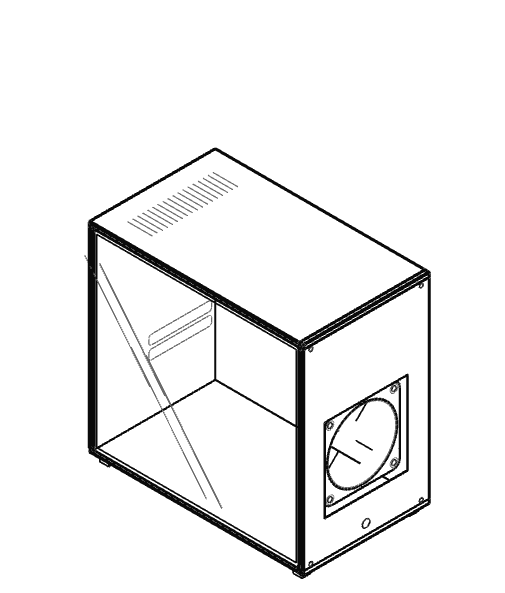
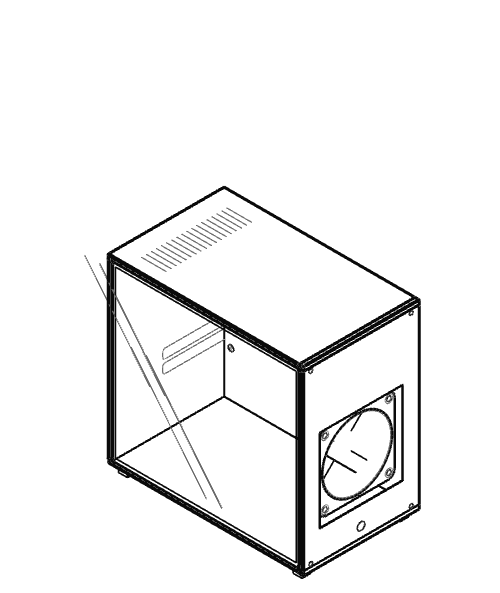
feat: add micro-ATX chassis variant and assets to service stage

diff --git a/src/lib/component-stage.ts b/src/lib/component-stage.ts
@@ -12,7 +12,7 @@ export type PieceId =
   | "fuentes" | "chasis" | "refrigeracion" | "almacenamiento";
 
 /** Variante dentro de un paso: refrigeración (aire | líquida), almacenamiento (M.2 | SATA | HDD); el resto tiene solo "unica". */
-export type VariantId = "unica" | "pecera" | "cerrado" | "itx" | "aire" | "liquida" | "m2" | "sata" | "hdd";
+export type VariantId = "unica" | "pecera" | "cerrado" | "matx" | "itx" | "aire" | "liquida" | "m2" | "sata" | "hdd";
 
 /** Imagen dibujada en el viewBox de la variante (x=0,y=0,width=w,height=h salvo que se diga otra cosa). */
 export interface StageImagePart {
@@ -186,17 +186,31 @@ export const STAGE_PIECES: Record<PieceId, StagePiece> = {
         ],
       },
       {
+        id: "matx",
+        w: 424,
+        h: 494,
+        parts: [
+          { type: "image", href: "/servicios/chasis-matx-ref.webp", hrefSm: "/servicios/chasis-matx-ref.webp", role: "base" },
+          { type: "image", href: "/servicios/chasis-matx-base.webp", hrefSm: "/servicios/chasis-matx-base-sm.webp", role: "base" },
+          { type: "rotor", href: "/servicios/chasis-matx-front120.webp", size: 98, m: [0.7071, -0.4082, 0, 0.8165, 265.515, 340.4185], dir: 1 },
+          { type: "path", kind: "air", d: "M365 443.8C361.9 442 352.5 436.6 346.2 432.9C339.9 429.3 333.7 425.7 327.4 422.1C321.1 418.4 314.8 414.8 308.5 411.2C302.3 407.6 296 403.9 289.7 400.3C283.4 396.7 277.1 393 270.9 389.4C264.6 385.8 258.3 382.2 252 378.5C245.7 374.9 239.5 371.3 233.2 367.7C226.9 364 220.6 360.4 214.3 356.8C208.1 353.2 201.8 349.5 195.5 345.9C189.2 342.3 183 338.7 176.7 335C170.4 331.4 164.1 327.8 157.8 324.2C151.6 320.5 145.3 317.1 139 313.3C132.7 309.5 126.4 305.9 120.2 301.2C113.9 296.6 107.6 291.3 101.3 285.4C95 279.4 88.8 272.8 82.5 265.6C76.2 258.4 69.9 250.5 63.7 241.9C57.4 233.4 49.5 221.5 44.8 214.4C40.1 207.2 37 201.6 35.4 199.1" },
+          { type: "path", kind: "air", d: "M380.7 403.3C377.6 401.5 368.2 396.1 361.9 392.4C355.6 388.8 349.3 385.2 343.1 381.6C336.8 377.9 330.5 374.3 324.2 370.7C318 367.1 311.7 363.4 305.4 359.8C299.1 356.2 292.8 352.6 286.6 348.9C280.3 345.3 274 341.7 267.7 338.1C261.4 334.4 255.2 330.8 248.9 327.2C242.6 323.6 236.3 319.9 230 316.3C223.8 312.7 217.5 309.1 211.2 305.4C204.9 301.8 198.7 298.2 192.4 294.6C186.1 290.9 179.8 287.3 173.5 283.7C167.3 280.1 161 276.6 154.7 272.8C148.4 269 142.1 265.4 135.9 260.8C129.6 256.1 123.3 250.8 117 244.9C110.7 239 104.5 232.4 98.2 225.1C91.9 217.9 85.6 210 79.3 201.4C73.1 192.9 65.2 181 60.5 173.9C55.8 166.7 52.7 161.2 51.1 158.6" },
+          { type: "path", kind: "air", d: "M401.7 422.7C398.5 420.8 389.1 415.4 382.8 411.8C376.6 408.2 370.3 404.5 364 400.9C357.7 397.3 351.4 393.7 345.2 390C338.9 386.4 332.6 382.8 326.3 379.2C320 375.5 313.8 371.9 307.5 368.3C301.2 364.7 294.9 361 288.7 357.4C282.4 353.8 276.1 350.2 269.8 346.5C263.5 342.9 257.3 339.3 251 335.7C244.7 332 238.4 328.4 232.1 324.8C225.9 321.1 219.6 317.5 213.3 313.9C207 310.3 200.7 306.6 194.5 303C188.2 299.4 181.9 296 175.6 292.1C169.3 288.3 163.1 284.7 156.8 280.1C150.5 275.4 144.2 270.2 138 264.2C131.7 258.3 125.4 251.7 119.1 244.5C112.8 237.2 106.6 229.3 100.3 220.8C94 212.2 86.2 200.3 81.4 193.2C76.7 186.1 73.6 180.5 72 178" },
+          { type: "path", kind: "air", d: "M417.4 382.2C414.2 380.4 404.8 374.9 398.5 371.3C392.3 367.7 386 364 379.7 360.4C373.4 356.8 367.1 353.2 360.9 349.5C354.6 345.9 348.3 342.3 342 338.7C335.7 335 329.5 331.4 323.2 327.8C316.9 324.2 310.6 320.5 304.3 316.9C298.1 313.3 291.8 309.7 285.5 306C279.2 302.4 273 298.8 266.7 295.2C260.4 291.5 254.1 287.9 247.8 284.3C241.6 280.7 235.3 277 229 273.4C222.7 269.8 216.4 266.2 210.2 262.5C203.9 258.9 197.6 255.5 191.3 251.7C185 247.8 178.8 244.3 172.5 239.6C166.2 235 159.9 229.7 153.7 223.7C147.4 217.8 141.1 211.2 134.8 204C128.5 196.7 122.3 188.8 116 180.3C109.7 171.8 101.8 159.9 97.1 152.7C92.4 145.6 89.3 140 87.7 137.5" },
+        ],
+      },
+      {
         id: "itx",
-        w: 421,
+        w: 417,
         h: 494,
         parts: [
           { type: "image", href: "/servicios/chasis-itx-ref.webp", hrefSm: "/servicios/chasis-itx-ref.webp", role: "base" },
           { type: "image", href: "/servicios/chasis-itx-base.webp", hrefSm: "/servicios/chasis-itx-base-sm.webp", role: "base" },
-          { type: "rotor", href: "/servicios/chasis-itx-front120.webp", size: 98, m: [0.7071, -0.4082, 0, 0.8165, 262.8987, 347.9711], dir: 1 },
-          { type: "path", kind: "air", d: "M362.4 451.4C359.6 449.7 351.1 444.8 345.4 441.5C339.7 438.2 334 435 328.3 431.7C322.7 428.4 317 425.1 311.3 421.8C305.6 418.6 299.9 415.3 294.3 412C288.6 408.7 282.9 405.4 277.2 402.2C271.5 398.9 265.9 395.6 260.2 392.3C254.5 389 248.8 385.8 243.1 382.5C237.4 379.2 231.8 375.9 226.1 372.6C220.4 369.4 214.7 366.1 209 362.8C203.4 359.5 197.7 356.2 192 353C186.3 349.7 180.6 346.4 175 343.1C169.3 339.8 163.6 336.8 157.9 333.3C152.2 329.8 146.5 326.6 140.9 322.2C135.2 317.9 129.5 313 123.8 307.4C118.1 301.8 112.5 295.6 106.8 288.7C101.1 281.8 95.4 274.2 89.7 266C84.1 257.8 77 246.4 72.7 239.5C68.4 232.6 65.6 227.2 64.2 224.8" },
-          { type: "path", kind: "air", d: "M378.1 410.9C375.3 409.2 366.8 404.3 361.1 401C355.4 397.8 349.7 394.5 344 391.2C338.4 387.9 332.7 384.6 327 381.4C321.3 378.1 315.6 374.8 310 371.5C304.3 368.2 298.6 365 292.9 361.7C287.2 358.4 281.6 355.1 275.9 351.8C270.2 348.6 264.5 345.3 258.8 342C253.1 338.7 247.5 335.4 241.8 332.2C236.1 328.9 230.4 325.6 224.7 322.3C219.1 319 213.4 315.8 207.7 312.5C202 309.2 196.3 305.9 190.7 302.6C185 299.4 179.3 296.3 173.6 292.8C167.9 289.3 162.2 286.1 156.6 281.8C150.9 277.5 145.2 272.5 139.5 266.9C133.8 261.3 128.2 255.1 122.5 248.2C116.8 241.3 111.1 233.8 105.4 225.6C99.8 217.4 92.7 205.9 88.4 199C84.1 192.1 81.3 186.8 79.9 184.3" },
-          { type: "path", kind: "air", d: "M399.1 430.2C396.2 428.6 387.7 423.6 382 420.4C376.3 417.1 370.7 413.8 365 410.5C359.3 407.2 353.6 404 347.9 400.7C342.2 397.4 336.6 394.1 330.9 390.8C325.2 387.6 319.5 384.3 313.8 381C308.2 377.7 302.5 374.4 296.8 371.2C291.1 367.9 285.4 364.6 279.8 361.3C274.1 358 268.4 354.8 262.7 351.5C257 348.2 251.4 344.9 245.7 341.6C240 338.4 234.3 335.1 228.6 331.8C222.9 328.5 217.3 325.2 211.6 322C205.9 318.7 200.2 315.6 194.5 312.1C188.9 308.7 183.2 305.4 177.5 301.1C171.8 296.8 166.1 291.9 160.5 286.3C154.8 280.7 149.1 274.4 143.4 267.5C137.7 260.6 132 253.1 126.4 244.9C120.7 236.7 113.6 225.2 109.3 218.4C105.1 211.5 102.2 206.1 100.8 203.6" },
-          { type: "path", kind: "air", d: "M414.8 389.7C411.9 388.1 403.4 383.2 397.7 379.9C392 376.6 386.4 373.3 380.7 370C375 366.8 369.3 363.5 363.6 360.2C357.9 356.9 352.3 353.6 346.6 350.4C340.9 347.1 335.2 343.8 329.5 340.5C323.9 337.2 318.2 334 312.5 330.7C306.8 327.4 301.1 324.1 295.5 320.8C289.8 317.6 284.1 314.3 278.4 311C272.7 307.7 267 304.4 261.4 301.2C255.7 297.9 250 294.6 244.3 291.3C238.6 288 233 284.8 227.3 281.5C221.6 278.2 215.9 275.1 210.2 271.6C204.6 268.2 198.9 264.9 193.2 260.6C187.5 256.3 181.8 251.4 176.2 245.8C170.5 240.2 164.8 233.9 159.1 227C153.4 220.2 147.7 212.6 142.1 204.4C136.4 196.2 129.3 184.8 125 177.9C120.8 171 117.9 165.6 116.5 163.1" },
+          { type: "rotor", href: "/servicios/chasis-itx-front120.webp", size: 98, m: [0.7071, -0.4082, 0, 0.8165, 258.7126, 356.43], dir: 1 },
+          { type: "path", kind: "air", d: "M358.2 459.8C355.6 458.3 347.5 453.6 342.1 450.5C336.7 447.4 331.3 444.3 326 441.2C320.6 438.1 315.2 435 309.8 431.8C304.4 428.7 299 425.6 293.7 422.5C288.3 419.4 282.9 416.3 277.5 413.2C272.1 410.1 266.7 407 261.4 403.9C256 400.8 250.6 397.7 245.2 394.6C239.8 391.5 234.5 388.3 229.1 385.2C223.7 382.1 218.3 379 212.9 375.9C207.5 372.8 202.2 369.7 196.8 366.6C191.4 363.5 186 360.4 180.6 357.3C175.3 354.2 169.9 351.3 164.5 348C159.1 344.6 153.7 341.6 148.3 337.4C143 333.3 137.6 328.5 132.2 323.1C126.8 317.7 121.4 311.6 116.1 304.9C110.7 298.2 105.3 290.8 99.9 282.8C94.5 274.8 87.8 263.5 83.8 256.8C79.7 250 77 244.7 75.7 242.3" },
+          { type: "path", kind: "air", d: "M373.9 419.3C371.3 417.8 363.2 413.1 357.8 410C352.4 406.9 347 403.8 341.7 400.7C336.3 397.6 330.9 394.5 325.5 391.4C320.1 388.3 314.7 385.2 309.4 382C304 378.9 298.6 375.8 293.2 372.7C287.8 369.6 282.4 366.5 277.1 363.4C271.7 360.3 266.3 357.2 260.9 354.1C255.5 351 250.2 347.9 244.8 344.8C239.4 341.6 234 338.5 228.6 335.4C223.2 332.3 217.9 329.2 212.5 326.1C207.1 323 201.7 319.9 196.3 316.8C191 313.7 185.6 310.8 180.2 307.5C174.8 304.2 169.4 301.1 164 297C158.7 292.8 153.3 288.1 147.9 282.6C142.5 277.2 137.1 271.1 131.7 264.4C126.4 257.7 121 250.3 115.6 242.3C110.2 234.3 103.5 223 99.5 216.3C95.4 209.5 92.7 204.2 91.4 201.8" },
+          { type: "path", kind: "air", d: "M394.9 438.7C392.2 437.1 384.1 432.5 378.7 429.3C373.3 426.2 368 423.1 362.6 420C357.2 416.9 351.8 413.8 346.4 410.7C341.1 407.6 335.7 404.5 330.3 401.4C324.9 398.3 319.5 395.2 314.1 392.1C308.8 388.9 303.4 385.8 298 382.7C292.6 379.6 287.2 376.5 281.8 373.4C276.5 370.3 271.1 367.2 265.7 364.1C260.3 361 254.9 357.9 249.6 354.8C244.2 351.7 238.8 348.6 233.4 345.4C228 342.3 222.6 339.2 217.3 336.1C211.9 333 206.5 330.1 201.1 326.8C195.7 323.5 190.4 320.4 185 316.3C179.6 312.1 174.2 307.4 168.8 302C163.4 296.5 158.1 290.5 152.7 283.7C147.3 277 141.9 269.7 136.5 261.6C131.2 253.6 124.4 242.4 120.4 235.6C116.3 228.9 113.7 223.6 112.3 221.2" },
+          { type: "path", kind: "air", d: "M410.6 398.2C407.9 396.6 399.8 392 394.4 388.9C389 385.8 383.7 382.6 378.3 379.5C372.9 376.4 367.5 373.3 362.1 370.2C356.7 367.1 351.4 364 346 360.9C340.6 357.8 335.2 354.7 329.8 351.6C324.5 348.5 319.1 345.4 313.7 342.3C308.3 339.1 302.9 336 297.5 332.9C292.2 329.8 286.8 326.7 281.4 323.6C276 320.5 270.6 317.4 265.3 314.3C259.9 311.2 254.5 308.1 249.1 305C243.7 301.9 238.3 298.8 233 295.6C227.6 292.5 222.2 289.6 216.8 286.3C211.4 283 206.1 279.9 200.7 275.8C195.3 271.7 189.9 266.9 184.5 261.5C179.1 256.1 173.8 250 168.4 243.3C163 236.5 157.6 229.2 152.2 221.2C146.8 213.1 140.1 201.9 136.1 195.1C132 188.4 129.4 183.1 128 180.7" },
         ],
       },
     ],

diff --git a/src/app/(public)/servicios/page.tsx b/src/app/(public)/servicios/page.tsx
@@ -59,6 +59,7 @@ const pasosComponentes: ShowcaseItem[] = [
       { id: "unica", label: "Vidrio", d: "Torre con panel lateral de vidrio y ventiladores al frente." },
       { id: "pecera", label: "Pecera", d: "Vidrio en el frente y en el lateral: el interior queda a la vista." },
       { id: "cerrado", label: "Cerrado", d: "Lateral de chapa sin ventana y frente de malla por donde entra el aire." },
+      { id: "matx", label: "Micro-ATX", d: "Más baja y corta que una torre ATX, para placas Micro-ATX: un punto medio entre tamaño y espacio para crecer." },
       { id: "itx", label: "Mini-ITX", d: "Para placas Mini-ITX: ocupa poco espacio, pero conviene revisar el largo de la gráfica y la altura del disipador." },
     ],
   },

diff --git a/src/components/component-showcase.tsx b/src/components/component-showcase.tsx
@@ -306,9 +306,9 @@ export function ComponentShowcase({ items }: { items: ShowcaseItem[] }) {
                 </p>
                 <p className="mt-2 text-xl font-semibold">{item.t}</p>
                 {item.variants && (
-                  <p className="mt-1 font-mono text-xs">
+                  <p className="mt-1 font-mono text-[11px] sm:text-xs">
                     {item.variants.map((v, k) => (
-                      <span key={v.id}>
+                      <span key={v.id} className="whitespace-nowrap">
                         {k > 0 && <span style={{ opacity: CHIP_DIM }}> · </span>}
                         <span
                           ref={(el) => {

diff --git a/CLAUDE.md b/CLAUDE.md
@@ -34,7 +34,7 @@ Sigue la política global (`~/.claude/CLAUDE.md`): planes/features grandes con l
 - **Cotizador**: el precio se muestra como `≈ ...` con aviso reforzado de que es aproximado según la gama y no es el precio final.
 - **Hero de la home: la torre "real" con ventiladores que giran con el scroll (2026-09-30):** `components/tower-hero.tsx` (`TowerHero`, en `(public)/page.tsx`) reemplazó al `AssemblyHero` (torre SVG simple que se armaba con el scroll). Es la torre del proyecto de video BWReel (`/Users/nabaol/Documents/BWReel`, fuera de este repo) renderizada UNA vez como imagen, sin WebGL ni librerías en la web: `public/hero/tower-base.webp` (torre armada, sin aspas, fondo transparente; 151 KB, y `tower-base-sm.webp` de 91 KB que sirve primero en pantallas < 768 px) y `fan-front120|gpuA|gpuB|psu.webp` (aspas de frente, ~15-19 KB cada una). Hoy son 7 ventiladores emitidos (`TOWER_FANS`): 3 del frente, 2 de la GPU (el izquierdo, el más cercano al vidrio, queda totalmente detrás del disipador y se DESCARTA), el del disipador de torre por aire que va sobre el procesador (agregado el 2026-10-02: antes la placa se veía con el CPU pelado) y el de la fuente de poder (`psu`, bajo su rejilla, como en /servicios; la rejilla va en la base). Cada uno es un sprite colocado con la **matriz afín** de su plano (`lib/tower-hero.ts`, generado; no editar a mano), así el `rotate()` de CSS se ve como un giro real en perspectiva. El scroll (0,45° por px) escribe el atributo SVG `transform="rotate(...)"` de cada sprite (NO variables CSS ni `transform` por CSS: en Safari de iPhone no se refrescaban y las aspas no giraban); el ventilador central de la GPU gira al revés (`dir`). **Máscaras de visibilidad (2026-10-02):** los sprites no saben qué tapa a su ventilador, así que BWReel calcula en 3D, por ventilador, qué parte de su disco de aspas se ve (la torre como oclusor de solo profundidad más un disco blanco en el plano de las aspas) y la guarda como `public/hero/mask-<n>.webp` (blanco con alfa, recortada a lo visible, 2-4 KB; `n` = índice en `TOWER_FANS`). Cobertura >= 98 % = sin máscara (los 3 del frente y la fuente), <= 3 % = ventilador descartado, en medio = `TowerFan.mask` `{href,x,y,w,h}` (px de la imagen grande): hoy el central y el derecho de la GPU (los recortan el disipador, su ventilador y el pilar del frente) y el del disipador (lo recorta la banda del borde superior del chasis, que ya tenía relleno oclusor). En `tower-hero.tsx` cada ventilador con máscara va en `<g mask="url(#tower-mask-i)">` (grupo EXTERIOR sin transform, así la máscara queda en coordenadas del viewBox) con `<mask maskUnits="userSpaceOnUse">` + `<image>` en `<defs>`; el `<g transform=matrix>` y el `<image>` que gira (atributo `transform` por JS) quedan dentro, y el `invert` de modo oscuro actúa solo sobre el sprite, no sobre la máscara. `fanRefs` va por índice de `TOWER_FANS` (los descartados no están). Torre quieta, opacidad 0,2 en claro y 0,14 en oscuro (`.tower-ink` en `globals.css`; en oscuro la línea se invierte con `filter: invert(1)`), mismo lugar que el fondo anterior (fijo, `-z-10`, centro-derecha). Una luz del frente (`.tower-led`, color de acento, NO verde, por la regla de un solo acento) parpadea una vez cada 11 s. Las **memorias RAM brillan** en el color de acento (`tower-ram.webp`, 6 KB): capa renderizada en 3D con la misma oclusión que la torre (solo se ve lo visible de las memorias; la GPU las tapa en parte) más un halo suave, que en la web solo "respira" con CSS (`.tower-ram`, opacidad 0,22 a 0,62 cada 6 s, sin invertirse en oscuro). Es un brillo pedido a propósito: la guía de diseño evita sombras y brillos, pero aquí es un detalle mínimo y en el color de acento. `prefers-reduced-motion`: sin giro (las reglas globales también congelan el parpadeo). `TowerHero` (home) y `TowerBackdrop` (solo el fondo) se exportan del mismo archivo: TODAS las páginas públicas usan la misma torre (`TowerBackdrop`); el SVG viejo (`assembly-hero.tsx`, `AssemblyHero`/`PcBackdrop`) se borró. **Regenerar** si cambia el modelo 3D: en BWReel, `python3 scripts/build-tower-assets.py` (renderiza, calcula matrices, máscaras y cobertura y escribe los `.webp` y `lib/tower-hero.ts` directamente en este repo; todo va primero a `public/hero.staging` y solo si sale bien se intercambia con `public/hero`, sin dejar nada a medias). Revisar a ojo con `python3 scripts/preview-tower.py [grados]` (compone base + sprites girados + máscaras como la web). Nota: el servidor de desarrollo compila el CSS por demanda, así que tras editar `globals.css` hay que recargar la página antes de comprobar.
 - **Intro de la home: "B & W" explota en la red de nodos (2026-09-29):** al cargar la home aparece "B & W" (Geist 800, `clamp(3.5rem,16vw,9rem)`, con un cuadradito de acento en la esquina de la "W") sobre vainilla; a los 900 ms los nodos del fondo salen disparados del wordmark hasta su posición (easeOutExpo, 1,4 s, curva ligera y retraso de 0-90 ms por nodo; las líneas se ven más intensas al inicio y decaen: `lineBoost`), la cubierta se funde y la página queda como siempre, con la red moviéndose e interactuando con el mouse exactamente igual que antes. Total ~2,9 s desde el inicio. Diseño validado con un plan de Opus. **Es un estado del documento, no un componente:** `<html data-intro="play|burst|done">` (`src/lib/intro.ts`, todas las constantes y tiempos allí). `INTRO_INIT_SCRIPT` (en línea, en `layout.tsx` justo después del de tema) decide ANTES de la primera pintura: solo en `/` sin hash, pestaña visible, sin `prefers-reduced-motion`, sin `saveData`, sin venir de un buscador (google/bing/duckduckgo/yahoo/ecosia/brave según `document.referrer`) y sin haberla visto en las últimas 24 h (`localStorage` `bw-intro`; localStorage y no sessionStorage porque el navegador interno de WhatsApp abre cada enlace como sesión nueva). `?intro=1` fuerza la intro (salta buscador, ahorro de datos y la marca de 24 h) pero NUNCA el movimiento reducido. Cualquier clic, toque, tecla, rueda, resize o pestaña oculta la salta (el script mismo pone `done`; el clic que salta se traga 400 ms para que no navegue por accidente); el mouse solo mover no salta. Piezas: `components/intro-overlay.tsx` (servidor, antes del header en `(public)/layout.tsx`; `display:none` sin el atributo), CSS en `globals.css` (bloque "Intro de la home"), y `NodesBackground` (fase interna de intro: `introFrame`/`startBurst`/`finishIntro`; en `play` no dibuja, en `burst` el canvas sube a `z-index:61` sobre la cubierta con la clase `bw-nodes`, en `done` vuelve a `-z-20` y entrega los nodos al `step()/draw()` de siempre; `draw(alphaMul, lineMul, nodeMul, withPointer)` con los valores por defecto dibuja idéntico a antes). `BrandWordmark` (su expansión "Build & Wire") y `CookieConsent` (+600 ms) esperan con `whenIntroDone` para no pisarla. **Regla clave: el contenido NO se oculta con opacidad**; queda pintado debajo de la cubierta opaca para que el h1 siga siendo candidato de LCP en la primera pintura (con opacity:0 el LCP se iría ~2 s). Medido en dev: FCP 516 ms, el wordmark de la cubierta es el LCP a 552 ms. Respaldo solo con CSS y JS: si nada termina la intro, la cubierta se funde sola a los 3,5 s (`bw-intro-out`), el canvas baja de capa a los 2,6 s (`bw-nodes-drop`) y el script pone `done` a los 3,6 s; sin JS no hay atributo y la cubierta no existe. Sin librería de animación (CSS + un bucle en el canvas). Marcas `performance.mark("bw-intro:burst"|"bw-intro:done")` para medir. Pruebas: `pnpm check:logic` evalúa el script con `node:vm` (18 casos: solo home, ancla, pestaña oculta, reduced-motion, saveData, buscadores, 24 h, `?intro=1`, localStorage bloqueado) y la matemática de `easeOutExpo`/`lineBoost`; en el navegador se verificó la secuencia, el salto por tecla, que `/servicios?intro=1` y una segunda visita no la muestren, modo oscuro, el respaldo CSS y que no haya errores de consola. Limitación del preview: no emula reduced-motion (se cubre con la prueba del script; probar a mano). **Incidente 2026-09-29:** en QA y producción la intro no aparecía y "B & W" se veía como texto suelto arriba a la izquierda: el HTML y el script eran los nuevos, pero el CSS servido no tenía NINGUNA regla de la intro (una compilación limpia de `origin/main` sí la genera) → caché de compilación vieja en Vercel. Arreglo: redesplegar QA y producción **sin caché de compilación** (Deployments → ⋯ → Redeploy → desmarcar "Use existing Build Cache"). Endurecimiento: la cubierta lleva `style="display:none"` en línea y el CSS la muestra con `display:flex !important` en `play`/`burst`; así, si el CSS no llega, la intro simplemente no se ve en vez de pintarse como texto. Ideas descartadas a propósito: bloquear el scroll durante la intro (movería el layout al quitar la barra) y un impulso automático al soltar el mouse (desharía las figuras que se forman al juntar puntos; si se quiere, solo como gesto al pulsar y soltar, aparte).
-- **Componentes en escena (2026-10-01):** en `/servicios`, la sección `#componentes` (h2 + párrafo en flujo normal) trae un recorrido alto con un escenario `sticky` (`top-16`, alto `100dvh-4rem`) que muestra UNA pieza a la vez (procesador, gráfica, RAM, board, fuente, chasis, refrigeración, almacenamiento) con scrub por scroll, ida y vuelta, sin capturar el scroll. **Variantes dentro de un paso (2026-10-02):** refrigeración (aire, líquida) y almacenamiento (M.2 NVMe, SSD SATA, HDD 3,5″) ocupan un tramo por variante: sale una imagen, instante vacío, entra la otra (nunca dos a la vez); el contador (`07 / 08`) y el título solo se atenúan al entrar a la pieza y al salir de ella, no entre variantes, y bajo el título una fila `Aire · Líquida` en `font-mono text-xs` resalta la variante activa (opacidad 1 vs 0,4, sin color nuevo) y la descripción mostrada es la de esa variante. **Chasis con 4 variantes (2026-10-23):** `unica` (etiqueta «Vidrio»: el modelo del hero y los reels, NO se toca), `pecera` (vidrio en frente y lateral, ventiladores en el piso mirando hacia arriba), `cerrado` (lateral de chapa y frente de malla; capa `malla` sobre los rotores) e `itx` (Mini-ITX a escala real con silueta ATX tenue en la capa `ref`); sus modelos viven en BWReel (`src/parts/chasis{Pecera,Cerrado,Compacto}.ts`, conectados en `src/chasisStage.ts`; se tocaron con permiso los protegidos `stageModel.ts` y `build-component-assets.py`; checksums vigentes en `work/protected-shasums-20261023.txt`, respaldo en `work/backup-20261023-chasis/`). Largo total ahora 1500 svh ≈ 15,6 pantallas (14 tramos, 12,5 unidades); antes 1230 svh y 11 tramos. Regenerar solo el chasis: `python3 scripts/build-component-assets.py --only=chasis` en BWReel (un render a la vez). Carga: al acercarse (IntersectionObserver) se cargan las imágenes de TODOS los tramos a la vez (no hay carga por tramo); las variantes sin versión `-sm` usan la misma imagen en móvil. Piezas: `components/component-showcase.tsx` (cliente: recorrido, bucle de scroll, alterna la torre), `components/component-piece.tsx` (SVG de una pieza) y `lib/component-showcase.ts` (matemática pura: `stageLayout(counts)` reparte el recorrido en tramos con peso —el primero de cada pieza pesa 1 = `SVH_PER_PIECE` 120 svh y cada variante extra `VARIANT_WEIGHT` 0,75 = 90 svh; con [1,1,1,1,1,1,2,3] son 10,25 unidades—; `frameAt(p, layout)` da tramo activo, pieza, variante, `t` local, opacidad/desplazamiento del tramo y `pieceOpacity` (contador y título); `frameFor(p, n)` = el caso de pesos 1, se conserva; `scrollProgress`, `trackHeight(units)`; casos en `pnpm check:logic`). Los datos (`STAGE_PIECES: Record<PieceId, { variants: [StageVariant, ...] }>` con `StageVariant = { id: VariantId, w, h, parts }`, `STAGE_ORDER`, partes `image`/`rotor`/`path` con `kind` `trace`|`air`|`flow`; `flow` = flujo dentro de los tubos de la líquida, se dibuja como `air` pero con trazo 1,5 y dash `6 10`) y las imágenes `public/servicios/*.webp` salen del proyecto BWReel: **regenerar con `python3 scripts/build-component-assets.py` en BWReel** (escribe `lib/component-stage.ts` y los `.webp` aquí; no editar a mano). Una sola fuente de textos: el arreglo `componentes` de `servicios/page.tsx` (con `id: PieceId` y, si hay pasos extra, `variants: { id: VariantId, label, d }[]` en el mismo orden que `STAGE_PIECES[id].variants`) alimenta tanto la `<dl class="cs-list">` (el `<dd>` lleva la descripción del paso y una sub-lista `<ul>` con una línea por variante, visible sin JS, con movimiento reducido y al imprimir) como `<ComponentShowcase items>`; el largo del recorrido sale de `stageLayout(items.map(i => i.variants?.length ?? 1))` en el render (igual en SSR y cliente). Si el escenario no trae una variante que la página declara, esa variante se omite del escenario pero sigue en la lista. **Progreso sin re-render:** un `IntersectionObserver` (rootMargin 150 %) activa el listener de scroll solo cerca de la pantalla y dispara la carga de imágenes (único estado React: `images` = null/`sm`/`lg`; sin `href` hasta estar cerca, así la carga inicial no baja ninguna); en cada frame (rAF) se lee UNA vez `track.getBoundingClientRect().top` y `p = (64 - top) / (alto del track - alto del escenario)`; se escribe solo lo que cambió (divs: `style.opacity/transform`; SVG: `setAttribute("transform"|"opacity"|"stroke-dashoffset")`, no variables CSS: Safari de iPhone). Tramos (uno por pieza o variante): 0 a 0,15 entra, 0,85 a 1 sale, animación propia entre 0,1 y 0,85 (slide, brillo de la RAM, trazos que se dibujan, flujo de aire, ventiladores que giran `scrolled × 0,9`°). Nunca se solapan dos tramos. Se renderiza un `PieceSvg` por TRAMO (no por pieza); refs por tramo (`slotRefs`, `varTextRefs`), por pieza (`headRefs`) y por etiqueta (`chipRefs`), se escribe solo lo que cambió y `will-change` solo en el tramo activo y el siguiente. **Torre:** mientras `0 < p < 1` el componente pone `data-tower-hidden` en `<html>`; `html[data-tower-hidden] .tower-backdrop { opacity: 0 }` (con transición) la desvanece y `TowerBackdrop.update()` sale temprano para que quede quieta; al terminar (p=1) o salir, vuelve. El cleanup del efecto SIEMPRE quita el atributo (si no, al navegar a otra página la torre quedaría oculta; verificado servicios → contacto a mitad del recorrido). **Respaldo / movimiento reducido:** el CSS decide, no el JS: `.cs-track { display: none }` y solo con `@media (scripting: enabled) and (prefers-reduced-motion: no-preference)` el recorrido se muestra y la lista `.cs-list` queda solo para lectores de pantalla (sr-only). Sin JS, con movimiento reducido o en un navegador viejo se ve la lista de siempre; además el componente escucha `matchMedia("(prefers-reduced-motion: reduce)")` y, con él, no registra nada y quita `data-tower-hidden`. En impresión se oculta el recorrido y se muestra la lista. Modo oscuro: `.piece-ink` (`filter: invert(1) contrast(.93)`) en imágenes base/slide/rotores, NO en el brillo de la RAM (`.piece-glow` pulsa solo con CSS). **Trampas:** nada de `overflow:hidden` en la sección ni en sus ancestros (rompe `sticky`); la altura del recorrido va en línea desde el SSR (`calc(1230svh + 100dvh - 4rem)` = `Math.round(unidades × 120)`, sin CLS); el escenario es `aria-hidden` y los textos usan `div`/`p`, no encabezados (el contenido semántico es la lista); con el panel del preview oculto no corren rAF ni IntersectionObserver ni las transiciones CSS: llamar `tabs_select` antes de verificar y probar con `scrollTo` + `dispatchEvent(new Event("scroll"))`; `pnpm lint` falla hoy en todo el repo por incompatibilidad de ESLint 10 con `eslint-plugin-react` (error al cargar `react/display-name`, no por este código). **Incidente 2026-10-02 (mismo patrón que la intro):** en producción la lista de Componentes se veía, el escenario aparecía encima y la torre no se ocultaba: el HTML y el JS eran los nuevos pero el CSS servido no tenía NINGUNA regla del bloque "Componentes en escena" (`cs-*`, `tower-backdrop`, `piece-*`), aunque sí las anteriores (`tower-ram`, `bw-intro`): caché de compilación vieja en Vercel. Arreglo: redesplegar **sin caché de compilación** (Deployments → ⋯ → Redeploy → desmarcar "Use existing Build Cache"). Para comprobarlo: bajar el `.css` de `/servicios` en producción y buscar `cs-track`. Endurecimiento: `.cs-track` lleva `display:none` en línea y el CSS lo muestra con `display:block !important`, así con CSS viejo se ve solo la lista de siempre. Es la segunda vez que pasa con el bloque más reciente de `globals.css`: tras cada despliegue que lo toque, verificar que las reglas nuevas estén en el CSS servido.
+- **Componentes en escena (2026-10-01):** en `/servicios`, la sección `#componentes` (h2 + párrafo en flujo normal) trae un recorrido alto con un escenario `sticky` (`top-16`, alto `100dvh-4rem`) que muestra UNA pieza a la vez (procesador, gráfica, RAM, board, fuente, chasis, refrigeración, almacenamiento) con scrub por scroll, ida y vuelta, sin capturar el scroll. **Variantes dentro de un paso (2026-10-02):** refrigeración (aire, líquida) y almacenamiento (M.2 NVMe, SSD SATA, HDD 3,5″) ocupan un tramo por variante: sale una imagen, instante vacío, entra la otra (nunca dos a la vez); el contador (`07 / 08`) y el título solo se atenúan al entrar a la pieza y al salir de ella, no entre variantes, y bajo el título una fila `Aire · Líquida` en `font-mono text-xs` resalta la variante activa (opacidad 1 vs 0,4, sin color nuevo) y la descripción mostrada es la de esa variante. **Chasis con 5 variantes (2026-10-23):** `unica` (etiqueta «Vidrio»: el modelo del hero y los reels, NO se toca), `pecera` (vidrio en frente y lateral, ventiladores en el piso mirando hacia arriba), `cerrado` (lateral de chapa y frente de malla; capa `malla` sobre los rotores), `matx` (Micro-ATX, ≈ 210×390×400) e `itx` (Mini-ITX, ≈ 184×300×310), ambos a escala real con silueta ATX tenue en la capa `ref` (`chasisCompacto.ts`, parametrizado); sus modelos viven en BWReel (`src/parts/chasis{Pecera,Cerrado,Compacto}.ts`, conectados en `src/chasisStage.ts`; se tocaron con permiso los protegidos `stageModel.ts` y `build-component-assets.py`; checksums vigentes en `work/protected-shasums-20261023.txt`, respaldo en `work/backup-20261023-chasis/`). Largo total ahora 1590 svh ≈ 16,5 pantallas (15 tramos, 13,25 unidades); antes 1230 svh y 11 tramos. Regenerar solo el chasis: `python3 scripts/build-component-assets.py --only=chasis` en BWReel (un render a la vez). Carga: al acercarse (IntersectionObserver) se cargan las imágenes de TODOS los tramos a la vez (no hay carga por tramo); las variantes sin versión `-sm` usan la misma imagen en móvil. Piezas: `components/component-showcase.tsx` (cliente: recorrido, bucle de scroll, alterna la torre), `components/component-piece.tsx` (SVG de una pieza) y `lib/component-showcase.ts` (matemática pura: `stageLayout(counts)` reparte el recorrido en tramos con peso —el primero de cada pieza pesa 1 = `SVH_PER_PIECE` 120 svh y cada variante extra `VARIANT_WEIGHT` 0,75 = 90 svh; con [1,1,1,1,1,1,2,3] son 10,25 unidades—; `frameAt(p, layout)` da tramo activo, pieza, variante, `t` local, opacidad/desplazamiento del tramo y `pieceOpacity` (contador y título); `frameFor(p, n)` = el caso de pesos 1, se conserva; `scrollProgress`, `trackHeight(units)`; casos en `pnpm check:logic`). Los datos (`STAGE_PIECES: Record<PieceId, { variants: [StageVariant, ...] }>` con `StageVariant = { id: VariantId, w, h, parts }`, `STAGE_ORDER`, partes `image`/`rotor`/`path` con `kind` `trace`|`air`|`flow`; `flow` = flujo dentro de los tubos de la líquida, se dibuja como `air` pero con trazo 1,5 y dash `6 10`) y las imágenes `public/servicios/*.webp` salen del proyecto BWReel: **regenerar con `python3 scripts/build-component-assets.py` en BWReel** (escribe `lib/component-stage.ts` y los `.webp` aquí; no editar a mano). Una sola fuente de textos: el arreglo `componentes` de `servicios/page.tsx` (con `id: PieceId` y, si hay pasos extra, `variants: { id: VariantId, label, d }[]` en el mismo orden que `STAGE_PIECES[id].variants`) alimenta tanto la `<dl class="cs-list">` (el `<dd>` lleva la descripción del paso y una sub-lista `<ul>` con una línea por variante, visible sin JS, con movimiento reducido y al imprimir) como `<ComponentShowcase items>`; el largo del recorrido sale de `stageLayout(items.map(i => i.variants?.length ?? 1))` en el render (igual en SSR y cliente). Si el escenario no trae una variante que la página declara, esa variante se omite del escenario pero sigue en la lista. **Progreso sin re-render:** un `IntersectionObserver` (rootMargin 150 %) activa el listener de scroll solo cerca de la pantalla y dispara la carga de imágenes (único estado React: `images` = null/`sm`/`lg`; sin `href` hasta estar cerca, así la carga inicial no baja ninguna); en cada frame (rAF) se lee UNA vez `track.getBoundingClientRect().top` y `p = (64 - top) / (alto del track - alto del escenario)`; se escribe solo lo que cambió (divs: `style.opacity/transform`; SVG: `setAttribute("transform"|"opacity"|"stroke-dashoffset")`, no variables CSS: Safari de iPhone). Tramos (uno por pieza o variante): 0 a 0,15 entra, 0,85 a 1 sale, animación propia entre 0,1 y 0,85 (slide, brillo de la RAM, trazos que se dibujan, flujo de aire, ventiladores que giran `scrolled × 0,9`°). Nunca se solapan dos tramos. Se renderiza un `PieceSvg` por TRAMO (no por pieza); refs por tramo (`slotRefs`, `varTextRefs`), por pieza (`headRefs`) y por etiqueta (`chipRefs`), se escribe solo lo que cambió y `will-change` solo en el tramo activo y el siguiente. **Torre:** mientras `0 < p < 1` el componente pone `data-tower-hidden` en `<html>`; `html[data-tower-hidden] .tower-backdrop { opacity: 0 }` (con transición) la desvanece y `TowerBackdrop.update()` sale temprano para que quede quieta; al terminar (p=1) o salir, vuelve. El cleanup del efecto SIEMPRE quita el atributo (si no, al navegar a otra página la torre quedaría oculta; verificado servicios → contacto a mitad del recorrido). **Respaldo / movimiento reducido:** el CSS decide, no el JS: `.cs-track { display: none }` y solo con `@media (scripting: enabled) and (prefers-reduced-motion: no-preference)` el recorrido se muestra y la lista `.cs-list` queda solo para lectores de pantalla (sr-only). Sin JS, con movimiento reducido o en un navegador viejo se ve la lista de siempre; además el componente escucha `matchMedia("(prefers-reduced-motion: reduce)")` y, con él, no registra nada y quita `data-tower-hidden`. En impresión se oculta el recorrido y se muestra la lista. Modo oscuro: `.piece-ink` (`filter: invert(1) contrast(.93)`) en imágenes base/slide/rotores, NO en el brillo de la RAM (`.piece-glow` pulsa solo con CSS). **Trampas:** nada de `overflow:hidden` en la sección ni en sus ancestros (rompe `sticky`); la altura del recorrido va en línea desde el SSR (`calc(1230svh + 100dvh - 4rem)` = `Math.round(unidades × 120)`, sin CLS); el escenario es `aria-hidden` y los textos usan `div`/`p`, no encabezados (el contenido semántico es la lista); con el panel del preview oculto no corren rAF ni IntersectionObserver ni las transiciones CSS: llamar `tabs_select` antes de verificar y probar con `scrollTo` + `dispatchEvent(new Event("scroll"))`; `pnpm lint` falla hoy en todo el repo por incompatibilidad de ESLint 10 con `eslint-plugin-react` (error al cargar `react/display-name`, no por este código). **Incidente 2026-10-02 (mismo patrón que la intro):** en producción la lista de Componentes se veía, el escenario aparecía encima y la torre no se ocultaba: el HTML y el JS eran los nuevos pero el CSS servido no tenía NINGUNA regla del bloque "Componentes en escena" (`cs-*`, `tower-backdrop`, `piece-*`), aunque sí las anteriores (`tower-ram`, `bw-intro`): caché de compilación vieja en Vercel. Arreglo: redesplegar **sin caché de compilación** (Deployments → ⋯ → Redeploy → desmarcar "Use existing Build Cache"). Para comprobarlo: bajar el `.css` de `/servicios` en producción y buscar `cs-track`. Endurecimiento: `.cs-track` lleva `display:none` en línea y el CSS lo muestra con `display:block !important`, así con CSS viejo se ve solo la lista de siempre. Es la segunda vez que pasa con el bloque más reciente de `globals.css`: tras cada despliegue que lo toque, verificar que las reglas nuevas estén en el CSS servido.
 
 - **Piezas a fondo (2026-10-11, piloto en BORRADOR):** páginas didácticas por pieza principal con el dibujo clicable y cada parte explicada; hoy solo `/piezas/tarjeta-madre` (redirige `placa-base`, `board`, `motherboard`; slug elegido por el dueño, no cambiarlo tras publicar). Plan completo en `docs/piezas-plan.md` (+ adendas: tamaños y Micro-ATX); errores reales del taller para las otras piezas en `docs/piezas-errores-taller.md` (distinguir «Nos ha pasado» de «Puede pasar»: nunca atribuir experiencia que el dueño no tiene). **Código:** contrato en `src/lib/piezas/types.ts` (a mano; `PIEZA_SLUGS`, ids de partes `TARJETA_MADRE_PARTES`, `PiezaContenido`, `Hecho` con fuente y `verificadoEn`), `registro.ts` (`piezasVisibles`, `piezaPorSlug`, `hrefPiezaServicios`), `entorno.ts` (`entornoActual`: producción SOLO con `VERCEL_ENV=production`; probar en local con `VERCEL_ENV=production pnpm dev`), `hotspots.ts` (matemática pura del explorador), `publicacion.ts` (puerta de publicación), `tarjeta-madre.contenido.ts` (texto y ~58 hechos, a mano) y `tarjeta-madre.geo.ts` (GENERADO por BWReel: no editar). UI: `components/piezas/{pieza-explorador (cliente, única isla), pieza-partes, factores-forma}.tsx`; página `app/(public)/piezas/[pieza]/page.tsx` (SSG, `dynamicParams=false`, `TechArticle`+`BreadcrumbList` por `JsonLd`, `noindex` si no está publicado). La página lleva el `SectionNav` (indicador lateral) con `navItems` armado según las secciones que la pieza realmente tiene (`inicio` envuelve al `PageHero`, `partes`, `lista`, `tamanos`, `elegir`, `errores`, `preguntas` solo con FAQ, `cotizar`): al agregar una sección nueva a la página, sumarla a ese arreglo en el mismo orden. Marcadores = enlaces `<a href="#parte">` con posición en ESTILO EN LÍNEA (sin CSS nuevo en `globals.css`; modo oscuro con `.piece-ink`); sin JS todo salta a las secciones. Toque por parte más cercana (44 px CSS). **Visibilidad:** en producción solo se ve lo `publicado` (borrador = 404 y fuera del sitemap); en preview y desarrollo se ve todo con aviso «Borrador» y `noindex`. **Puerta de publicación:** para pasar `estado` a `"publicado"` cada hecho necesita `verificadoEn`, `verificadoPor` y al menos una fuente https con `consultadoEn` (`check:piezas` lo hace cumplir); `consultadoEn: ""` = URL que no se pudo abrir. Los ~58 hechos están TODOS sin verificar (varios de memoria, p. ej. 12 V vs 5 V de RGB/ARGB). Quedan TODO(dueño): frase del costo de placas pequeñas, frase del CTA (versión prudente hoy). **Regenerar imágenes y puntos:** en BWReel, `python3 scripts/build-piece-assets.py` (modelo `src/parts/moboDetail.ts`, ATX completo; Micro-ATX y Mini-ITX lanzan «no implementado, Fase 2b»; copia de respaldo en `BWReel/work/backup-20261011`, BWReel no es repo git); escribe `public/piezas/*` (webp 1460 px sin pérdida, sm casi sin pérdida, OG) y `tarjeta-madre.geo.ts` de forma atómica; `scripts/preview-piece.py` para revisarlo. El modelo es didáctico: varias medidas «por verificar» (EPS, M.2, largos PCIe); las del tamaño de placa, orificios y E/S salen de la especificación ATX 2.2. `moboBoard` (hero, /servicios, reels) NO se tocó. **Enlaces:** el paso «Boards» de /servicios y la palabra «Board» del inicio enlazan a la pieza SOLO si `hrefPiezaServicios` no es null (si es null el HTML renderizado queda idéntico: verificado contra la versión anterior en modo producción). **Pruebas:** `scripts/check-piezas.mjs` (se carga desde `check-logic.mjs`). Fuera del piloto: RAM (DDR4 vs DDR5), procesador, gráfica, fuente, índice `/piezas` (se crea con la 2.ª pieza) y Mini-ITX (solo existe como contorno a escala; `moboDetail("mini-itx")` lanza «no implementado»). **Fase 2b (hecha 2026-10-13):** el paso «Boards» del recorrido de /servicios ahora dibuja una placa **Micro-ATX** (244 × 244 mm) con `moboDetail("micro-atx", { noTraces: true })` + `moboDetailTraces("micro-atx")`; en BWReel solo cambió el caso `boards/unica` de `stageModel.ts` (ZOOM 1,41) y se regeneró con `build-component-assets.py --only=boards` (`public/servicios/boards-base*.webp` 32 KB / 18 KB y la entrada `boards` de `lib/component-stage.ts`); el resto de /servicios, el hero y los reels no cambiaron. **Ojo:** `buildVariant("boards","unica")` también lo usa el promo horizontal (`src/promoH/three/PieceModel.tsx`): si se re-renderiza esa tarjeta, saldrá con la Micro-ATX (los videos ya renderizados en `out/` no cambian). La página de la pieza sigue mostrando la ATX. Medidas por verificar de la Micro-ATX: agujeros R y S, posiciones de conectores, DIMM y ranura libre.
 - **Piezas a fondo, fases 2 a 4 (2026-10-14 a 2026-10-19, TODO en BORRADOR, nada publicado):** hoy hay 7 piezas con página y dibujo: `tarjeta-madre`, `procesador` (vistas am4/am5/intel-lga + decodificador de nombres por patrón, `procesador/decodificador.ts` y tablas `procesador.datos.ts` con `hechoId`), `memoria-ram` (ddr4/ddr5), `almacenamiento` (m2-nvme/m2-sata/ssd-sata/hdd), `refrigeracion` (aire/liquida), `fuente-de-poder` (por-fuera/por-dentro/conectores) y `tarjeta-grafica` (armada/placa); `/piezas` es el índice (404 con menos de 2 visibles). **Multivista:** una pieza puede tener varias vistas (`VISTAS_POR_PIEZA`, chips `#vista-<id>`, la parte elegida se conserva al cambiar de vista); contrato en `types.ts` (`PARTES_POR_PIEZA`, `PREFIJO_ID_VISTA`, `SINONIMOS_SLUG`). Cada pieza tiene `<slug>.contenido.ts` (a mano) y `<slug>.geo.ts` (GENERADO por BWReel: `python3 scripts/build-piece-assets.py --slug=<slug>`, de a una, con ≥1 GB libres; no editar; límites duros 80/40 KB por imagen grande/`-sm`, separación ≥24 px entre marcadores a 343 px; archivos protegidos de BWReel en `BWReel/work/protected-shasums-20261013.txt`). **Explorador:** al elegir una parte el dibujo se amplía hacia su `foco` (`focusTransform`, hasta 3×, transición desactivada con `prefers-reduced-motion`), los marcadores van fuera de la capa ampliada y conservan su tamaño, el toque se des-transforma, y el botón «Ver todo el dibujo» la apaga; sin JS no cambia nada. La sección de casos se titula «Para tener en cuenta» (los rótulos por caso siguen siendo «Nos ha pasado»/«Puede pasar»; título en `pieza-casos.tsx`). **Verificación por hojas (flujo del dueño):** `scripts/hoja-verificacion.mjs` (`--esqueleto --todas`, `--importar-md`, `--md`, `--consolidar` → `docs/verificacion/CONSOLIDADA.md`, `--estado`, `--validar`, y de la Fase 4 `--congelar` (hecho una vez; `docs/verificacion/linea-base.json`), `--aplicar [hoja…|--todas] [--escribir]` y `--verificar [hoja…|--todas] [--para-publicar]`); los JSON `docs/verificacion/<slug>.json` + `comun.json` guardan fuentes consultadas, propuesta del agente y la `decision` de NB (aprobar/ajustar con `textoFinal`/quitar). **Flujo:** agentes investigan fuentes → NB decide → `--aplicar --escribir` (codemod con el AST de `typescript`, idempotente, solo en `<slug>.contenido.ts` y `comun.hechos.ts`) escribe `verificadoEn/Por` (ayudante `verificadoPorDueno` en `constructores.ts`), textos ajustados, fuentes consultadas y `aprobadoEn/Por` de casos y criterios (`aprobadoPorDueno`); `quitar` y fusiones se hacen a mano y el verificador (reglas H1 a H9) los exige. **Nadie escribe a mano `verificadoEn/Por` ni `aprobadoEn/Por`**: editar el texto de un hecho o caso ya decidido exige una decisión nueva en la hoja. `HOJAS_APLICADAS` en `scripts/check-hoja.mjs` lista las 8 hojas y mete el verificador en `pnpm check:logic`; `check:piezas` quedó dividido en `scripts/check-piezas/*.mjs` (comun, hotspots, contenido, pagina, publicacion, registro, estaticas, decodificador, index). **Estado 2026-10-19:** 131 hechos con decisión de NB aplicada (aprobados y ajustados con fuente consultada; se quitaron 11 por contradichos o sin fuente y se fusionaron los sufijos de Intel y de AMD en `cpu-intel-sufijos-k` y `cpu-amd-sufijos-x-xt`); 36 casos y 31 criterios aprobados; sigue todo en `borrador`. **Pendiente antes de publicar:** `pcie-tamanos-fisicos` sin fuente primaria (`--verificar --para-publicar` lo marca); 3 casos aprobados conservan frases que ya no encajan con los hechos ajustados (`m2-sin-tornillo`, `so-dimm-en-escritorio`, `cable-ramificado-en-varios-conectores`: retocarlos exige decidirlos de nuevo); `revisarCadaMeses` solo en una parte de los hechos; 20 ajustes llevan experiencia del taller sin fuente (aviso del verificador); frase del costo de placas pequeñas y del CTA (TODO dueño); Mini-ITX no está modelado; publicar por lotes y, al desplegar, redesplegar sin caché de compilación y comprobar el CSS servido; `public/llms.txt`. **Publicación por lotes (2026-10-19):** se publica cambiando `estado` a `"publicado"` en `<slug>.contenido.ts` (la puerta `problemasDePublicacion` ya da 0 problemas en las 7). Lote 1 = `tarjeta-madre` + `memoria-ram` (ya en producción y visto por el dueño); `public/llms.txt` ya lista los 3 lotes en la sección «Piezas a fondo» (solo HTML, sin variante Markdown): agregar a mano cada pieza al publicar su lote; lote 2 = `procesador` + `almacenamiento` (preparado 2026-10-20, pendiente de despliegue); las páginas de pieza NO llevan `TowerBackdrop` (la torre fija cruzaba los párrafos largos; el índice `/piezas` sí la conserva); lote 3 = `refrigeracion`, `fuente-de-poder` y `tarjeta-grafica` (preparado 2026-10-20: con esto las 7 piezas quedan en `publicado`; falta solo desplegar y revisar en producción). Con 2 publicadas aparece `/piezas`, el sitemap las incluye y `/servicios` y el inicio enlazan solo las publicadas. Las pruebas de `scripts/check-piezas/` ya NO dependen del estado real (usan `registroConPublicadas`/`registroConEstado` de `comun.mjs`). **Trampa de Tailwind:** nunca pegar una clase a una interpolación (`` `lg:col-span-7${x}` ``): el escáner no la detecta y no se genera su CSS (el dibujo del explorador quedó aplastado a 55 px en escritorio); usar clases completas por rama. Después de cada despliegue, bajar el CSS servido y buscar `lg:col-span-7`. Decisiones de redacción que dictó NB (sufijos, OC por chipset, VRM, USB/audio frontal por tipo y no por marca, gamas Ryzen baja/media/alta/premium, etc.) viven en las hojas, no aquí.
